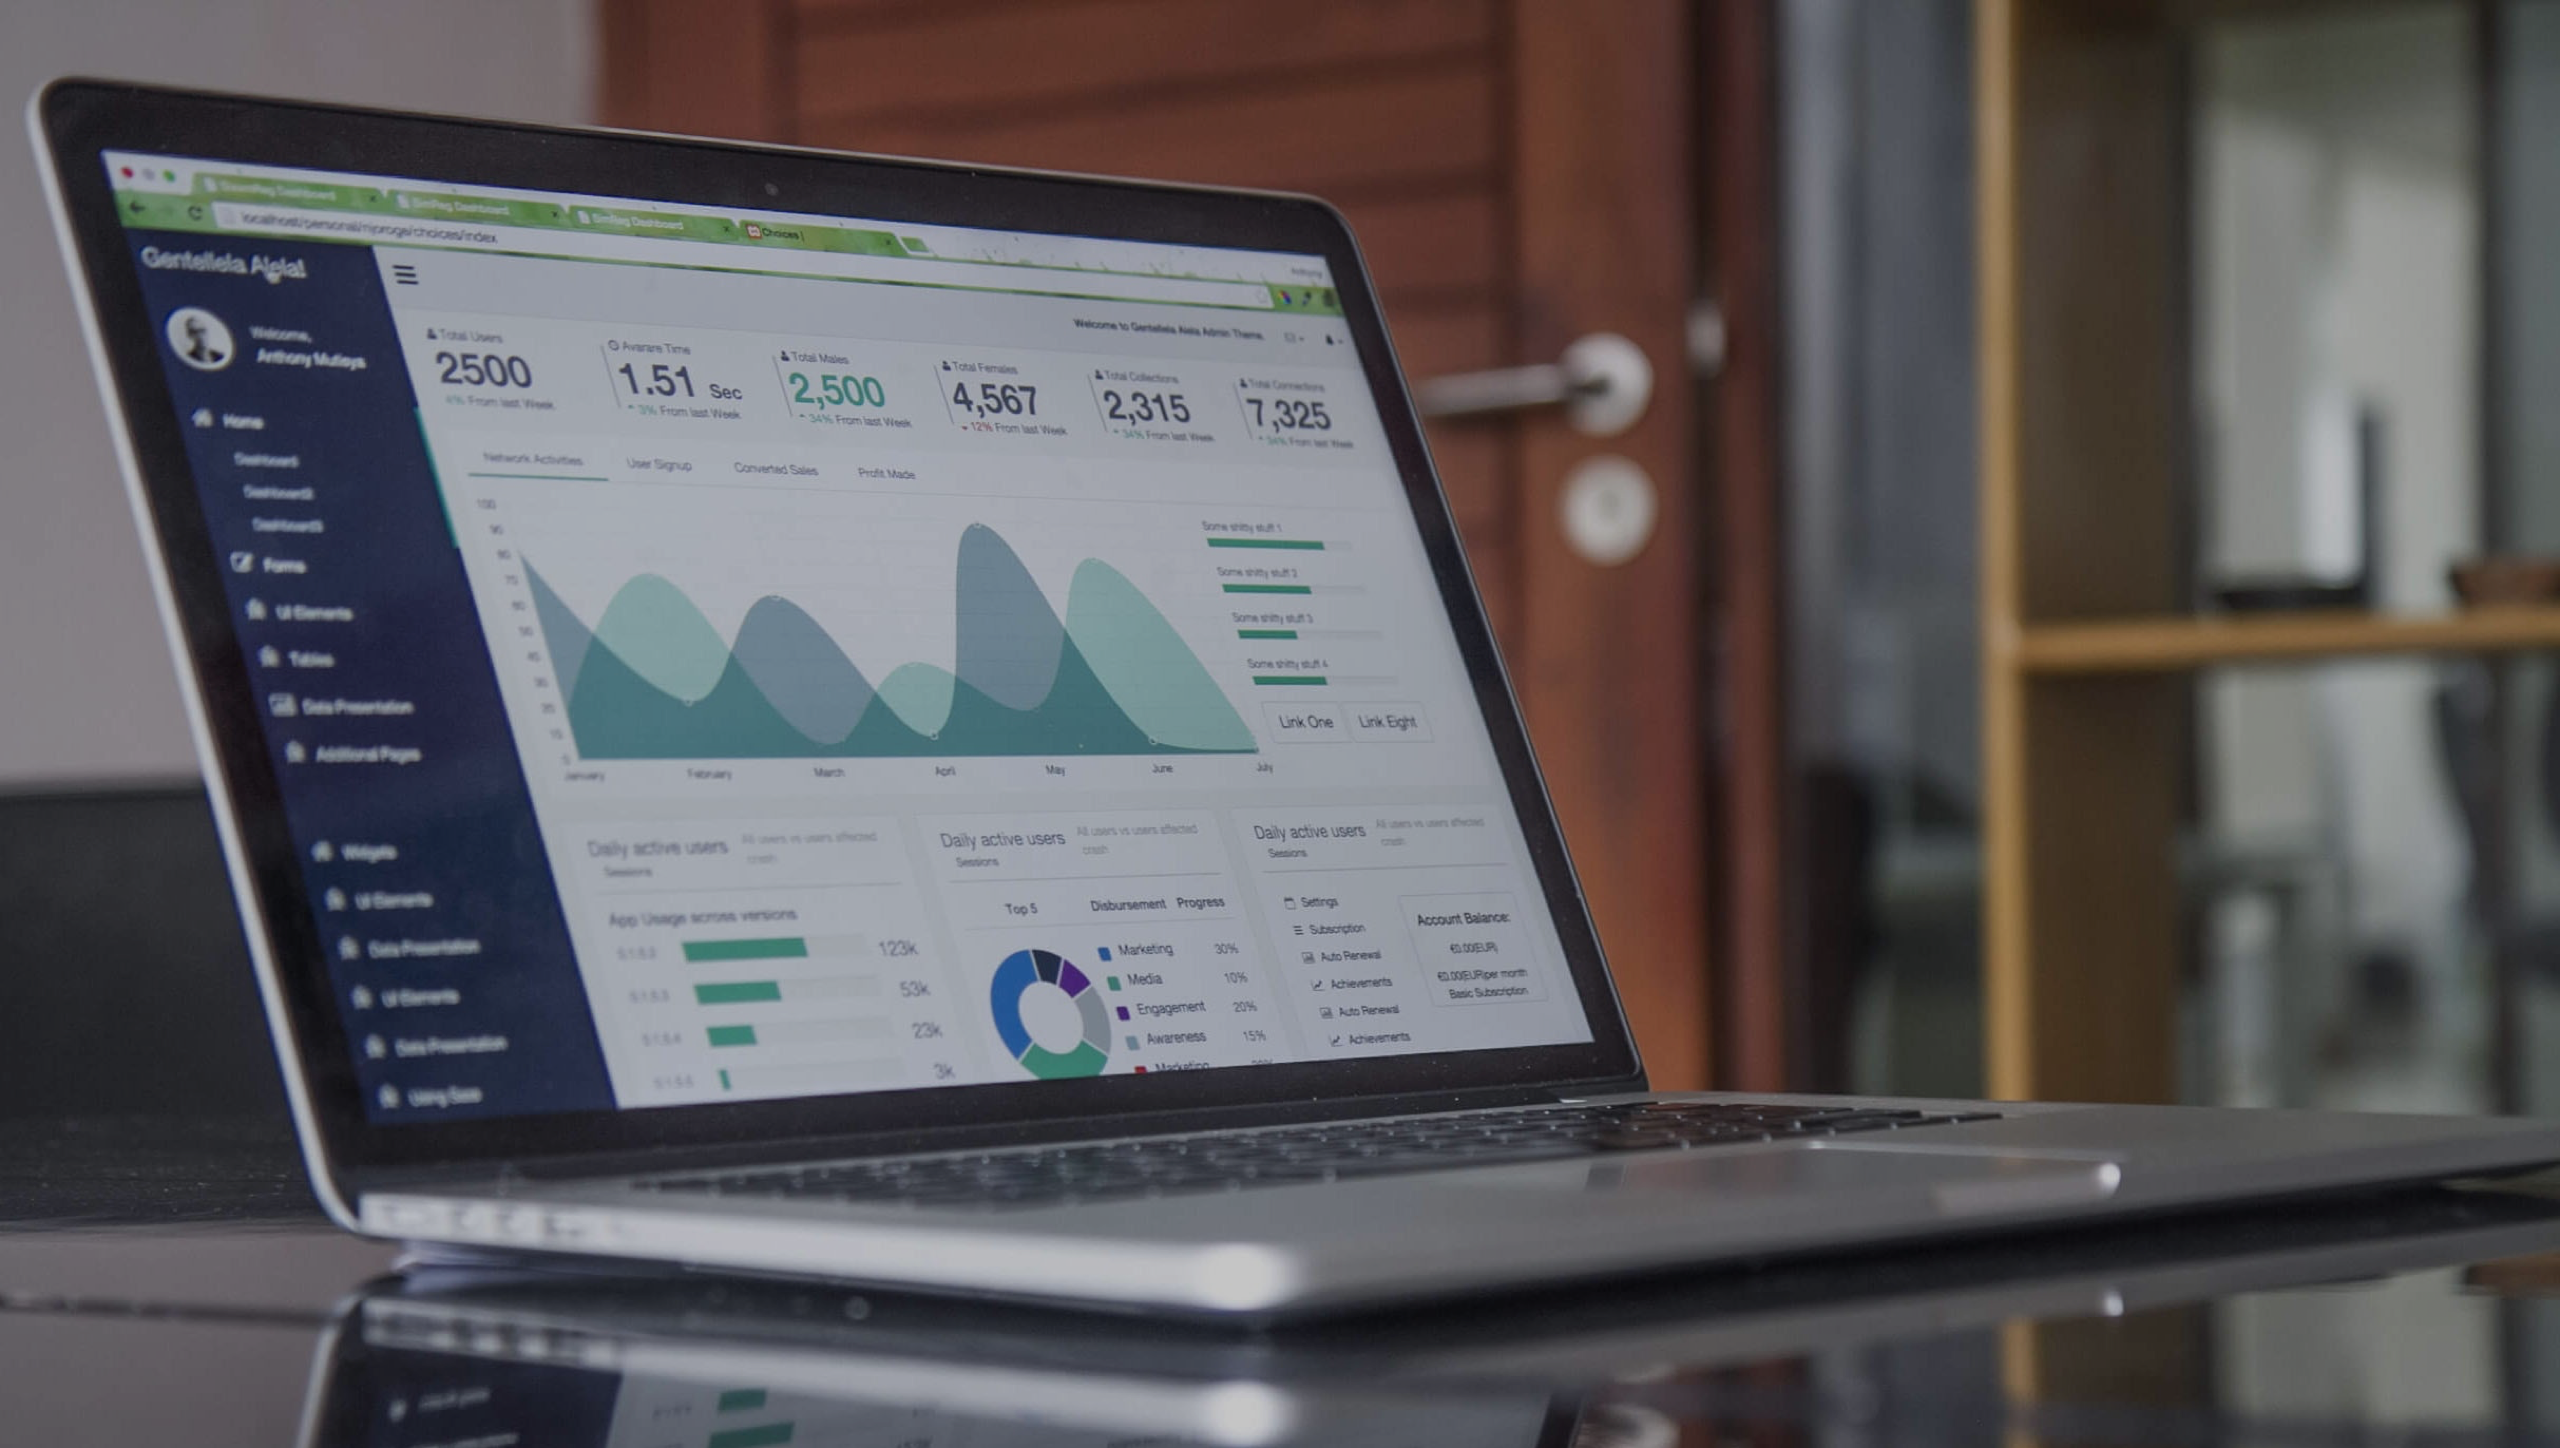
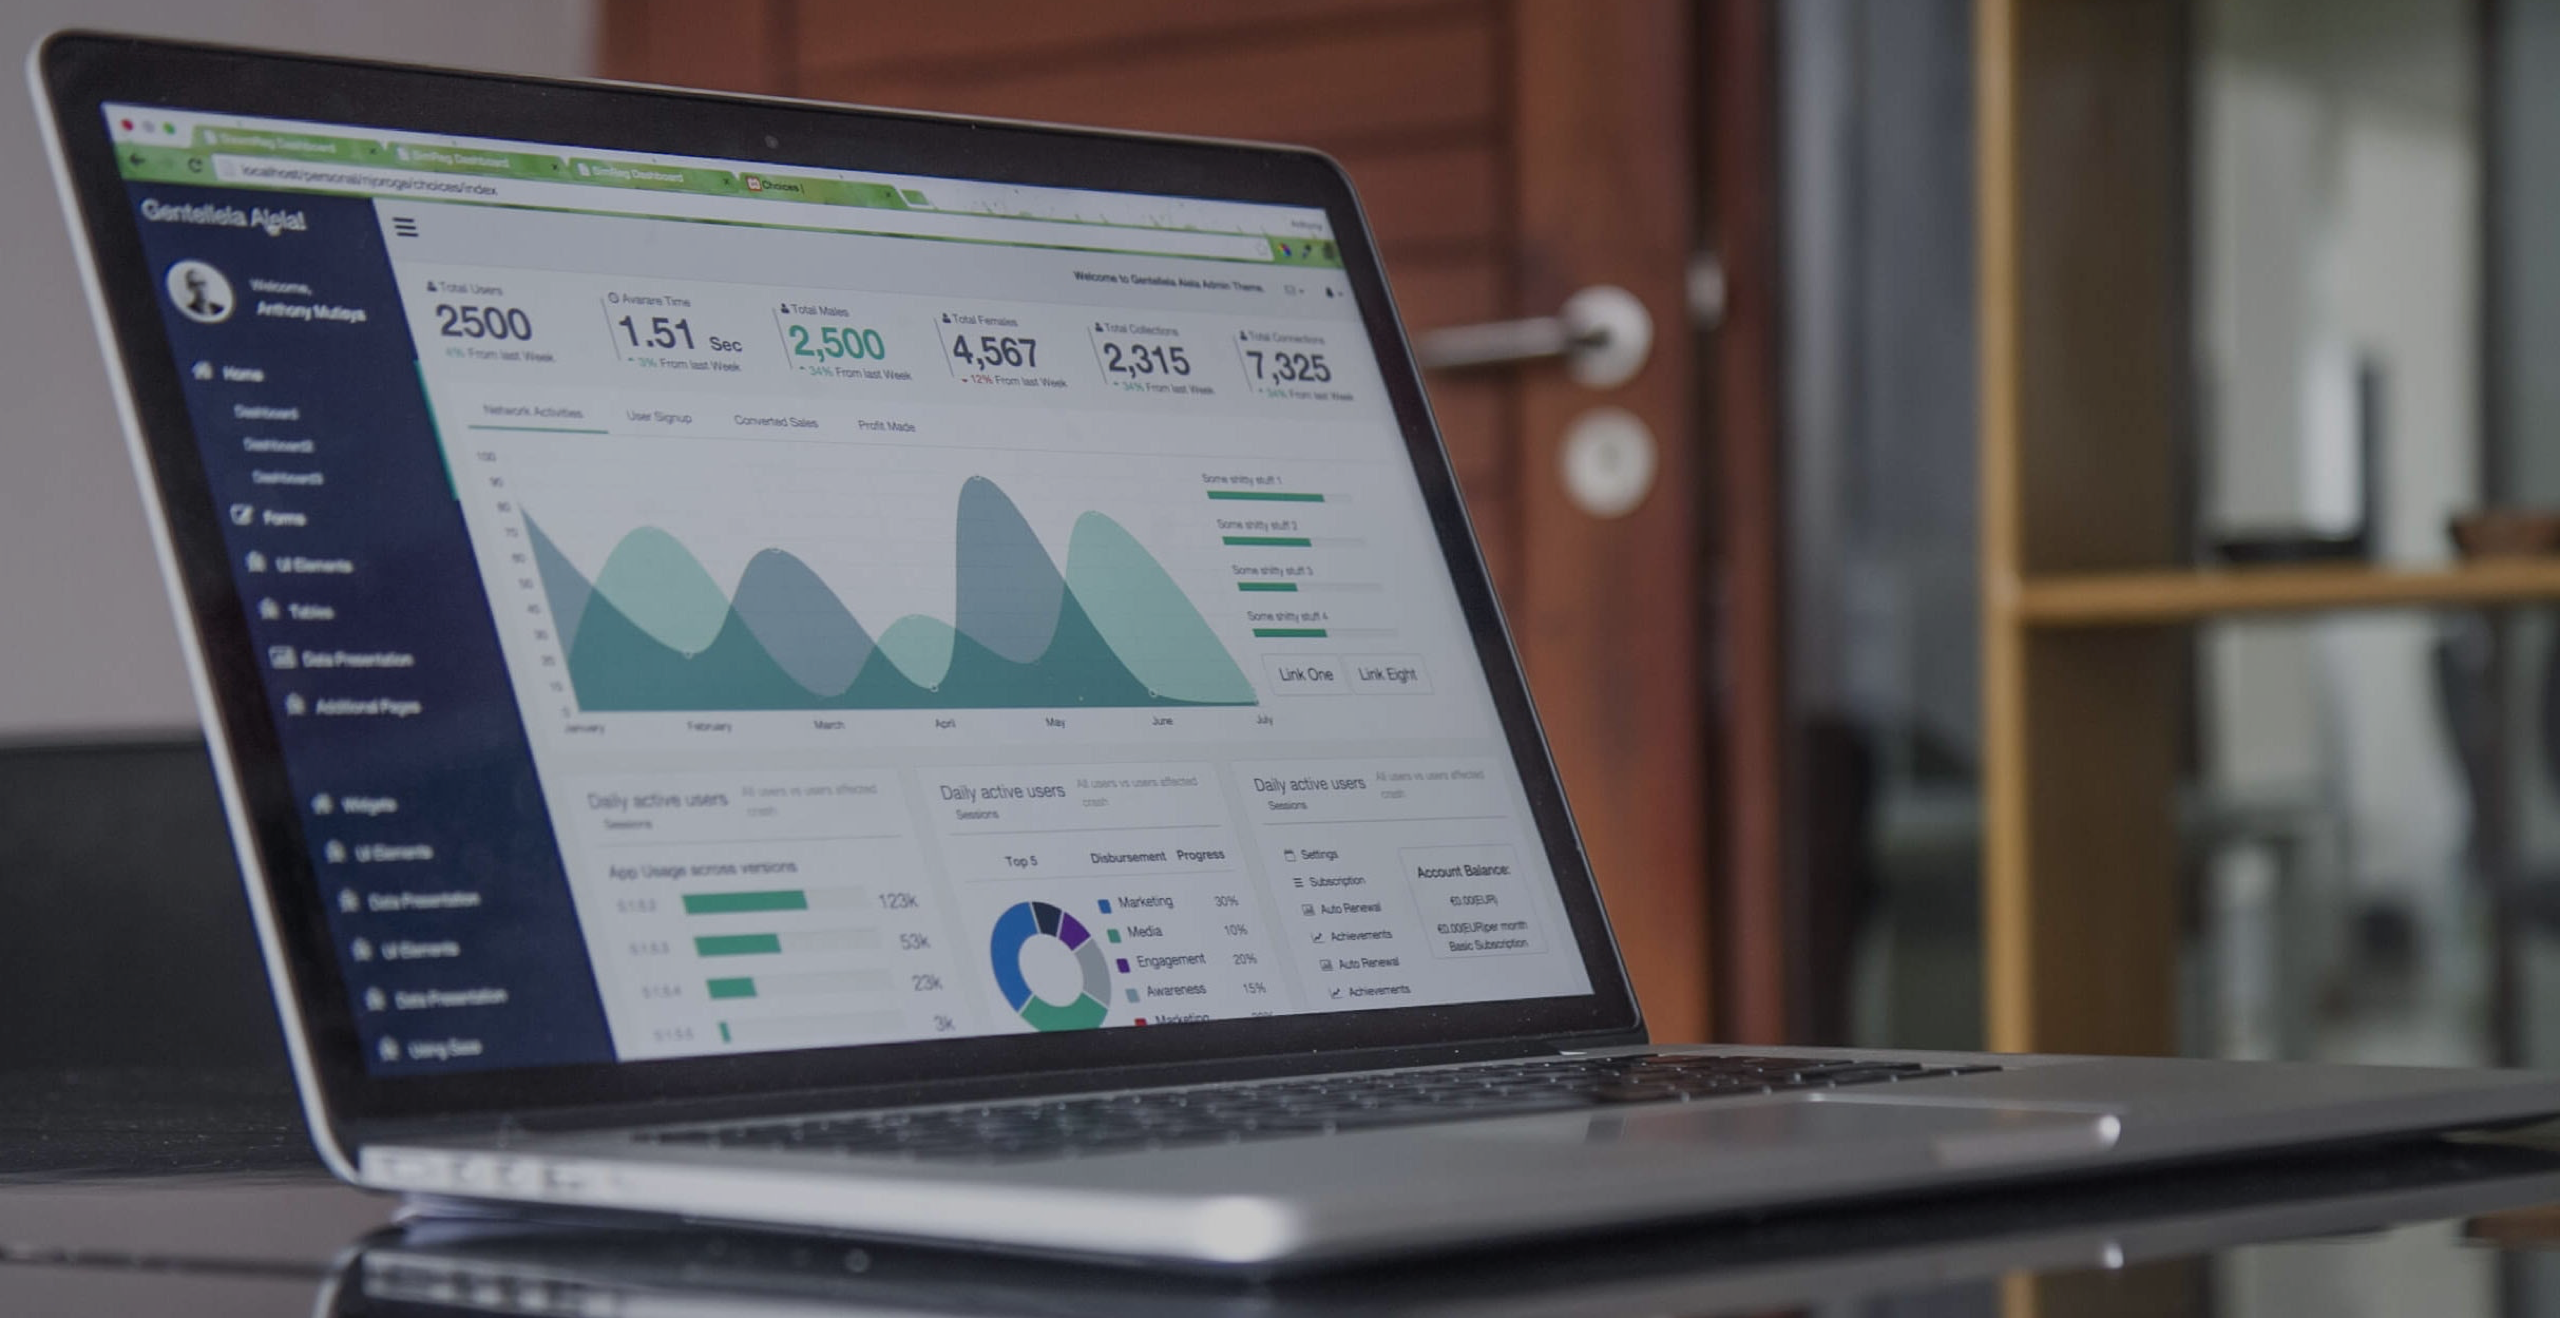
Final changes

diff --git a/src/pages/index.js b/src/pages/index.js
@@ -2,7 +2,7 @@ import React from "react";
 import Link from "gatsby-link";
 //import Navbar from "react-bootstrap/Navbar";
 import Images from "../images";
-import { FaGithub } from "react-icons/fa";
+import { FaGithub, FaLink } from "react-icons/fa";
 import { FaLinkedin } from "react-icons/fa";
 
 const {
@@ -188,7 +188,8 @@ const Banner = () => {
         style={{
           flex: 1,
           maxWidth: "100%",
-          alignItems: "stretch"
+          minWidth: " 100%",
+          maxHeight: "700px"
         }}
         src={Heroimage}
         alt=""
@@ -196,7 +197,7 @@ const Banner = () => {
       <div
         style={{
           position: "absolute",
-          top: "300px",
+          top: "270px",
           left: "65%",
           width: "470px",
           height: "100%",
@@ -379,8 +380,12 @@ const TeamMembers = () => {
             behavior and SEO ranking. For more information, check out my
             personal website.
           </p>
-          <FaGithub style={styles.smicon} />
-          <FaLinkedin style={styles.smicon} />
+          <a href="">
+            <FaGithub style={styles.smicon} />
+          </a>
+          <a href="">
+            <FaLinkedin style={styles.smicon} />
+          </a>
         </div>
         <div
           style={{
@@ -404,8 +409,12 @@ const TeamMembers = () => {
             analytics, I have decided to help businesses and individuals make
             better decisions with data.
           </p>
-          <FaGithub style={styles.smicon} />
-          <FaLinkedin style={styles.smicon} />
+          <a href="">
+            <FaGithub style={styles.smicon} />
+          </a>
+          <a href="">
+            <FaLinkedin style={styles.smicon} />
+          </a>
         </div>
       </div>
     </div>

diff --git a/src/components/layout.css b/src/components/layout.css
@@ -11,7 +11,7 @@ body {
 h1 {
   font-size: 36px;
   font-weight: bold;
-  letter-spacing: 5px;
+  letter-spacing: 5.5px;
 }
 h2 {
   font-size: 28px;
